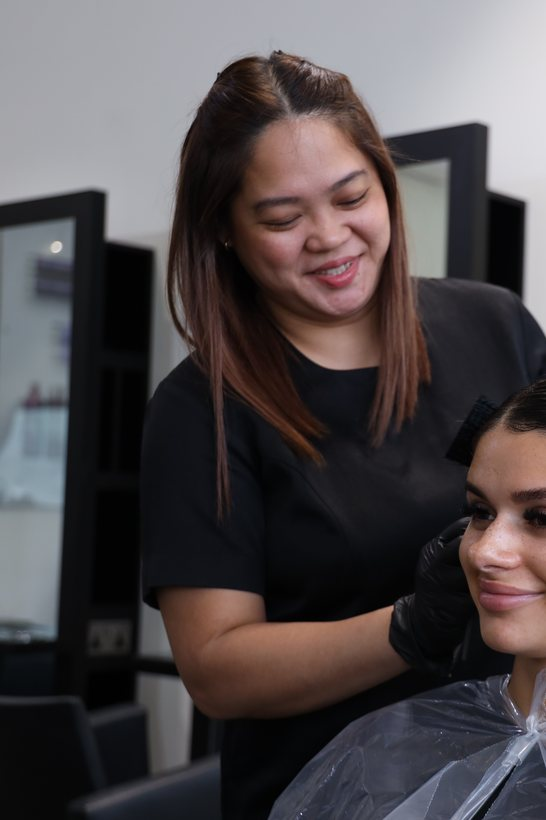
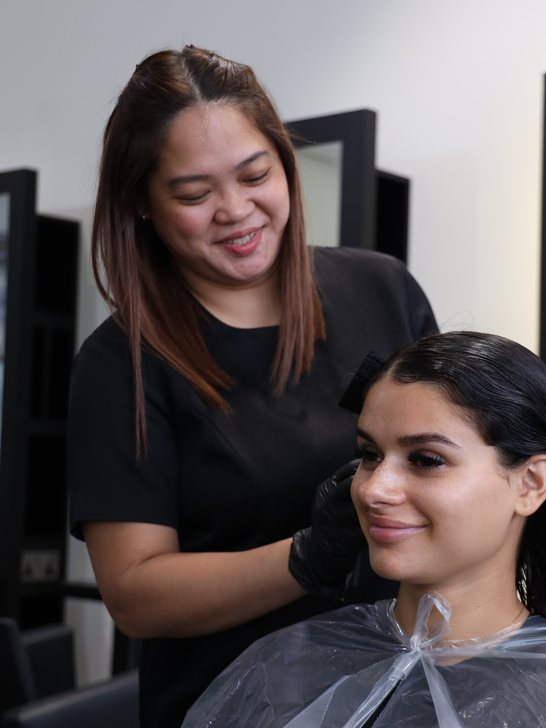
A landscape band was being driven through a portrait photograph, so the rail beheaded whoever was standing up
Kate: the photographs are right now, the framing is ugly. Two causes, and the second
is the one that was doing the damage.

The files were 2:3 and the card is 3:4, so the browser was quietly trimming 5.5% off
the top and bottom of a composition made without ever seeing that trim. Two of the
three lost the top of a head to it. The files are now 546x728, the card's own ratio,
so what is composed is what ships, and the markup's width and height moved with them.

And under 560px the rule was aspect-ratio:16/10, a landscape band through a portrait
photograph, showing the middle 42% of the height. In every one of these frames the
person standing up is the stylist, so the phone cut her head off. It is 4/5 now,
which shows 94% of the card. The rail is a single column at that width, so there was
never a reason for it to be letterboxed in the first place.

Framing is full height with a horizontal centre only: listens cx 0.40, looks cx 0.50,
explains cx 0.48, each judged as a rendered card at 3:4 and 4:5 rather than as a raw
file, which is what went wrong the first two times.

diff --git a/index.html b/index.html
@@ -151,9 +151,9 @@
       <p class="stack-anchor">Your stylist works through the 8-Step Hair Plan, the way we assess every head of hair. In the chair, it looks like this.</p>
     </div>
     <div class="hour-rail">
-      <figure><img src="assets/img/consult-listens.jpg" alt="A stylist talking with her client at the chair before the appointment begins" loading="lazy" decoding="async" width="546" height="820"><figcaption>She listens first</figcaption></figure>
-      <figure><img src="assets/img/consult-looks.jpg" alt="A stylist checking the condition of her client's hair with both hands" loading="lazy" decoding="async" width="546" height="820"><figcaption>Then she looks properly</figcaption></figure>
-      <figure><img src="assets/img/consult-explains.jpg" alt="A stylist showing her client the treatment she has chosen for her" loading="lazy" decoding="async" width="546" height="820"><figcaption>Then she explains it</figcaption></figure>
+      <figure><img src="assets/img/consult-listens.jpg" alt="A stylist talking with her client at the chair before the appointment begins" loading="lazy" decoding="async" width="546" height="728"><figcaption>She listens first</figcaption></figure>
+      <figure><img src="assets/img/consult-looks.jpg" alt="A stylist checking the condition of her client's hair with both hands" loading="lazy" decoding="async" width="546" height="728"><figcaption>Then she looks properly</figcaption></figure>
+      <figure><img src="assets/img/consult-explains.jpg" alt="A stylist showing her client the treatment she has chosen for her" loading="lazy" decoding="async" width="546" height="728"><figcaption>Then she explains it</figcaption></figure>
     </div>
     <div class="timeline">
       <div class="tstep"><span class="wk">First</span><b>She listens before she looks at anything else</b></div>

diff --git a/css/junior-experience.css b/css/junior-experience.css
@@ -188,7 +188,9 @@
 }
 @media(max-width:559px){
   .hour-rail{ grid-template-columns:1fr; gap:20px; }
-  .hour-rail img{ aspect-ratio:16/10; }
+  /* 16/10 here used to drive a landscape band through a portrait photograph, which
+     beheaded whoever was standing up. 4/5 shows 94% of the card instead. */
+  .hour-rail img{ aspect-ratio:4/5; }
 }
 
 .menu-head{ font-family:var(--fd); font-size:clamp(21px,2.6vw,26px); font-weight:500; text-align:center; margin:38px 0 6px; color:var(--ink); }

diff --git a/docs/BUILD-NOTES.md b/docs/BUILD-NOTES.md
@@ -38,6 +38,21 @@ desktop and beheaded two of the three on mobile. Final geometry, all full height
 originals at 6720px or 5783px wide, so roughly 3x the pixels needed: listens at cx 0.32,
 looks at cx 0.55, explains at cx 0.40. Every one checked at both ratios before shipping.
 
+**Crop fix, same day.** Kate again: the photographs were right and the framing was ugly.
+Two causes, and the second was the real one.
+
+1. **The files were 2:3 and the card is 3:4**, so the browser was quietly trimming 5.5% off
+   the top and bottom of a composition made without seeing it. Two of the three lost the top
+   of a head that way. **The files are now 546x728, the card's own ratio**, so what is
+   composed is what ships. `width`/`height` in the markup moved with them.
+2. **The mobile rule was `aspect-ratio:16/10`**, a landscape band driven through a portrait
+   photograph, showing the middle 42% of the height. It beheaded whoever was standing up,
+   which in every one of these frames is the stylist. **Now `4/5`, which shows 94%.** The rail
+   is a single column under 560px, so there was never a reason for it to be letterboxed.
+
+Final framing, full height, horizontal centre only: listens cx 0.40, looks cx 0.50, explains
+cx 0.48. Checked as rendered cards at 3:4 and 4:5, not as raw files.
+
 **Four files deleted from this repo:** the three reused ones plus `exp-floor.jpg`, unused
 since the hero changed. They stay in the page tree, where the Bahrain founding page and the
 beauty voucher page still use them. **This supersedes the Photography section further down**,
